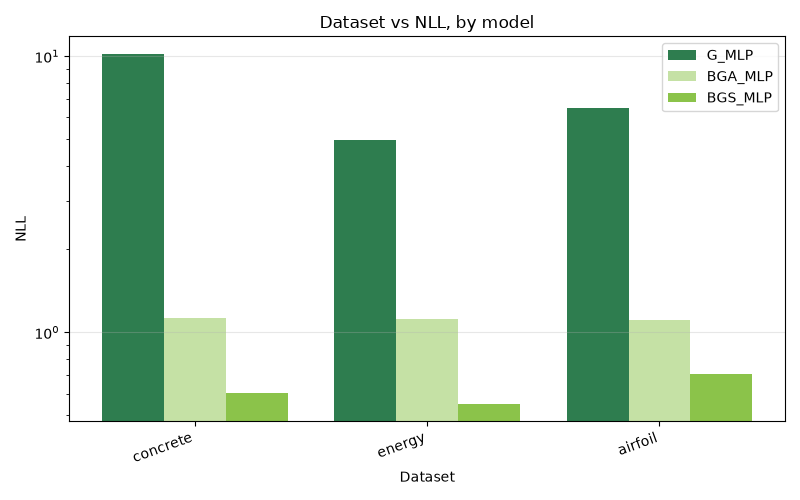
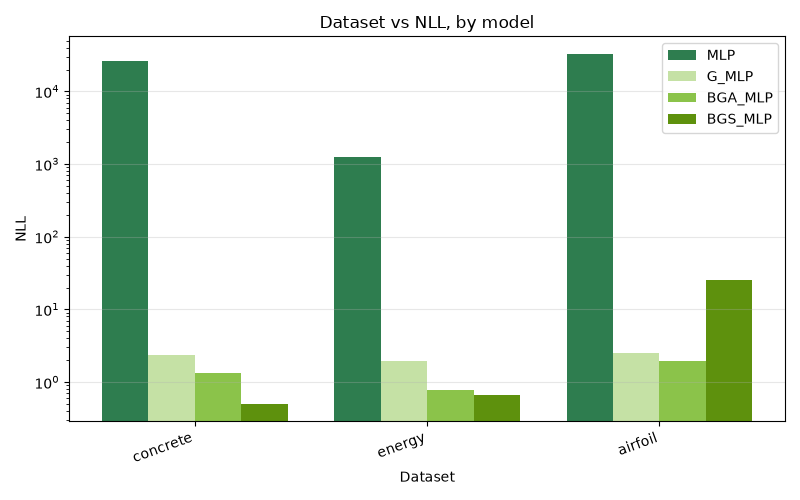
Add mlp

diff --git a/src/vis/dataset_plot.py b/src/vis/dataset_plot.py
@@ -30,7 +30,7 @@ def plot_dataset_vs_metric(results: dict[str, list[dict]], metric: str, save_pat
 
     plt.figure(figsize=(8, 5))
 
-    colors = [ "#2e7d4f", "#c5e1a5", "#8bc34a"]
+    colors = [ "#2e7d4f", "#c5e1a5", "#8bc34a", "#5e910d"]
 
     for i, model in enumerate(models):
         # Map dataset -> metric
@@ -74,6 +74,7 @@ if __name__ == "__main__":
 
         # Model loop
         for name, cls, extra_cfg in [
+            ("MLP", MLP, {}),
             ("G_MLP", G_MLP, {}),
             ("BGA_MLP", BGA_MLP, {"N": 50}),
             ("BGS_MLP", BGS_MLP, {"N": 50, "tau_scheduler": "ExponentialTauScheduler", "device": device}),
